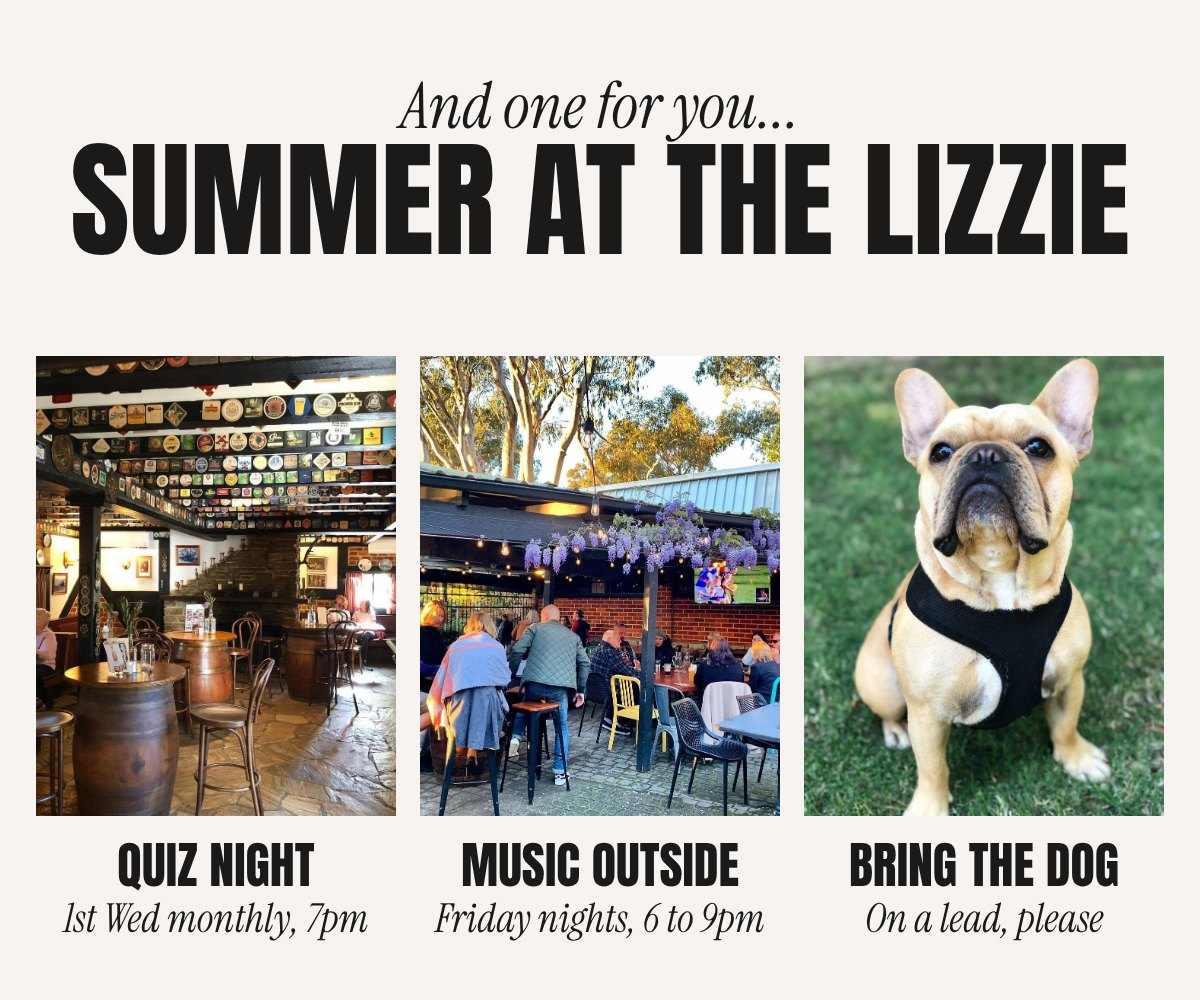
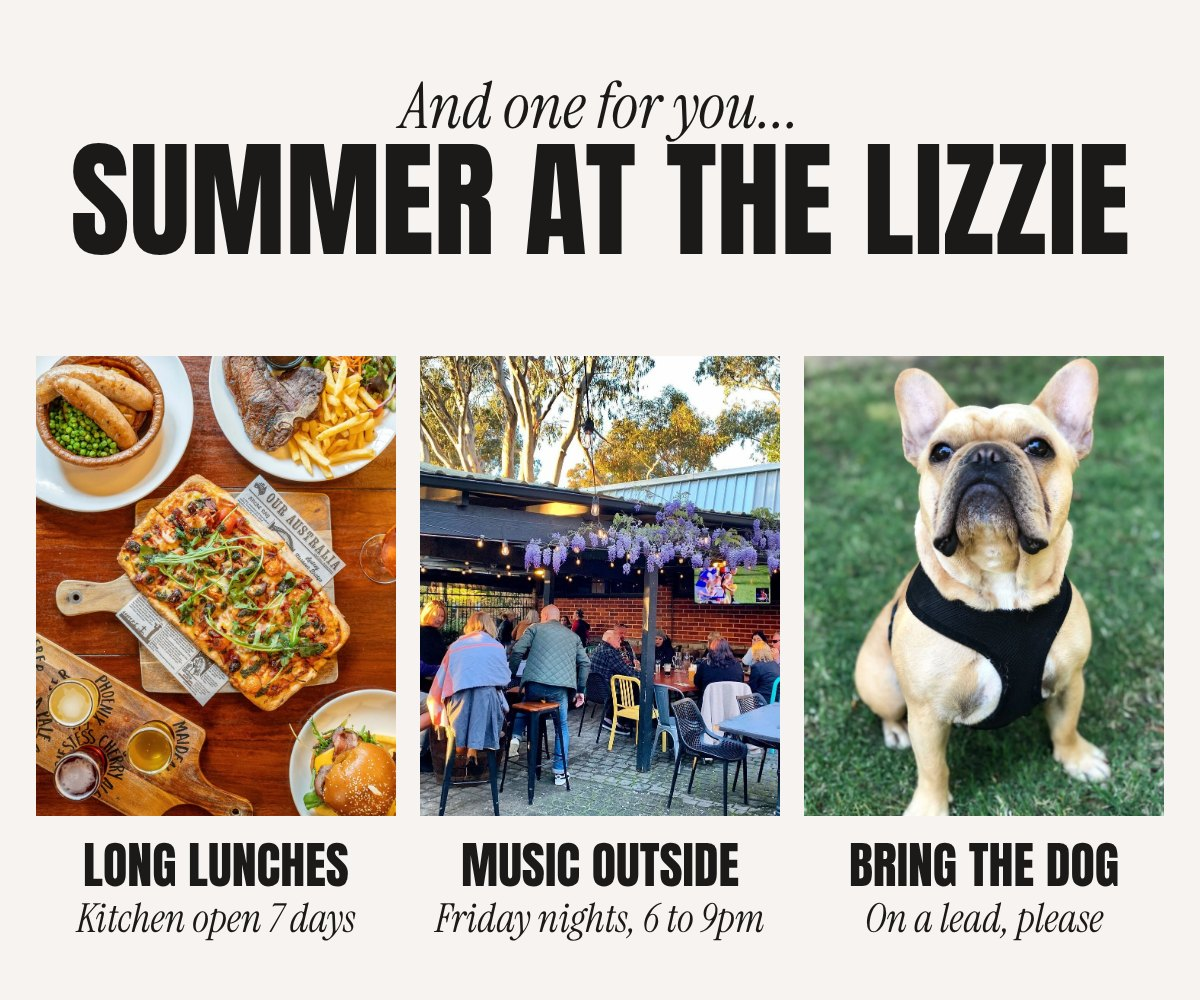
Lizzie plan: apply Sarah's notes across December emails
Platters and room hire wording in Christmas, Village Green removed,
seniors groups, reopening Wednesday 6 January, Christmas Eve hours,
@dogsofthelizzie, replies to her notes.

Claude-Session: https://claude.ai/code/session_01JNj2JeQGYZLpLPwVj3fL53

Changed region(s): [[0.0308, 0.341, 0.3392, 0.961]]

diff --git a/last-drop-elizabethan/plan/e-christmas.html b/last-drop-elizabethan/plan/e-christmas.html
@@ -17,11 +17,14 @@ img{display:block;width:600px;max-width:100%;height:auto}
 <div class="t"><p>Hi, Sarah here. I look after functions at the Lizzie.</p><p>Our Christmas menu starts this Saturday, 28 November, and runs until Christmas Eve. It's roast turkey and pork with crackling, Yorkshire puddings and all the sides for $30 a head, or $36 with pavlova, for groups of 20 or more.</p><p>If you're the one organising the work do this year, email me your date and numbers and I'll take it from there. Everything's prepaid 7 days ahead, so the sooner you book, the more dates you'll have to choose from.</p></div>
 <div class="b" style="padding-bottom:12px"><a href="mailto:info@lastdropelizabethan.com?subject=Christmas%20booking%20%28from%20your%20email%29&body=Hi%20Lizzie%20team%2C%0A%0AWe%27d%20love%20to%20book%20Christmas%20at%20the%20Lizzie.%0A%0ADate%3A%0ANumber%20of%20guests%20%2820%2B%29%3A%0ASpace%20we%27d%20like%3A%0ARoast%20%28%2430%29%20or%20roast%20%2B%20pavlova%20%28%2436%29%3A%0AName%20and%20phone%3A%0A%0AThanks%21">Email Sarah</a></div>
 <div class="t small" style="padding-top:0;padding-bottom:30px">Not the organiser? Forward this to whoever is.<br>Fewer than 20 of you? The Christmas roast is on every weekend until Christmas. For up to 14 people you can <a href="https://bookings.nowbookit.com/?accountid=58cf4dc2-efec-44b6-9343-872a46e872fb&venueid=7196&theme=light&colors=hex%2C000000">book a table online</a>, and for 15 to 19, just email me.</div>
-<a href="mailto:info@lastdropelizabethan.com?subject=Christmas%20booking%20%28from%20your%20email%29&body=Hi%20Lizzie%20team%2C%0A%0AWe%27d%20love%20to%20book%20Christmas%20at%20the%20Lizzie.%0A%0ADate%3A%0ANumber%20of%20guests%20%2820%2B%29%3A%0ASpace%20we%27d%20like%3A%0ARoast%20%28%2430%29%20or%20roast%20%2B%20pavlova%20%28%2436%29%3A%0AName%20and%20phone%3A%0A%0AThanks%21"><img src="img/lizzie-christmas-menu-v5.jpg" alt="The Christmas roast: roast turkey and pork with crackling, rosemary chats, pumpkin and honey carrot, peas, Yorkshire pudding, red wine gravy and cranberry sauce, then Christmas pavlova. $30 the roast, $36 with pavlova. Seniors $25, or $31 with pavlova."></a>
-<a href="mailto:info@lastdropelizabethan.com?subject=Christmas%20booking%20%28from%20your%20email%29&body=Hi%20Lizzie%20team%2C%0A%0AWe%27d%20love%20to%20book%20Christmas%20at%20the%20Lizzie.%0A%0ADate%3A%0ANumber%20of%20guests%20%2820%2B%29%3A%0ASpace%20we%27d%20like%3A%0ARoast%20%28%2430%29%20or%20roast%20%2B%20pavlova%20%28%2436%29%3A%0AName%20and%20phone%3A%0A%0AThanks%21"><img src="img/lizzie-christmas-spaces-v5.jpg" alt="Room for the crew: the Leo Fowler Room (10 to 60 seated), the Courtyard (10 to 50), the Upper Terrace (10 to 60) and the Village Green (20 to 70). Room hire and minimum spends may apply."></a>
+<a href="mailto:info@lastdropelizabethan.com?subject=Christmas%20booking%20%28from%20your%20email%29&body=Hi%20Lizzie%20team%2C%0A%0AWe%27d%20love%20to%20book%20Christmas%20at%20the%20Lizzie.%0A%0ADate%3A%0ANumber%20of%20guests%20%2820%2B%29%3A%0ASpace%20we%27d%20like%3A%0ARoast%20%28%2430%29%20or%20roast%20%2B%20pavlova%20%28%2436%29%3A%0AName%20and%20phone%3A%0A%0AThanks%21"><img src="img/lizzie-christmas-menu-v5.jpg" alt="The Christmas roast: roast turkey and pork with crackling, rosemary chats, pumpkin and honey carrot, peas, Yorkshire pudding, red wine gravy and cranberry sauce, then Christmas pavlova. $30 the roast, $36 with pavlova. Seniors groups $25, or $31 with pavlova, when the whole group orders it."></a>
+<a href="mailto:info@lastdropelizabethan.com?subject=Christmas%20booking%20%28from%20your%20email%29&body=Hi%20Lizzie%20team%2C%0A%0AWe%27d%20love%20to%20book%20Christmas%20at%20the%20Lizzie.%0A%0ADate%3A%0ANumber%20of%20guests%20%2820%2B%29%3A%0ASpace%20we%27d%20like%3A%0ARoast%20%28%2430%29%20or%20roast%20%2B%20pavlova%20%28%2436%29%3A%0AName%20and%20phone%3A%0A%0AThanks%21"><img src="img/lizzie-christmas-spaces-v5.jpg" alt="Room for the crew: the Leo Fowler Room (10 to 60 seated), the Courtyard (10 to 50) and the Upper Terrace (10 to 60). Happy to share the space with other groups? There's no hire fee or minimum spend. Want a space to yourselves? A private hire fee applies."></a>
 <div class="t"><p>To book, email me the date, roughly how many of you there'll be and the space you like the look of. The last day to book for Christmas Eve is 17 December.</p><p class="small">One couple who had their wedding here wrote that they had "amazing communication with Sarah throughout the planning process". Their words, not mine!</p></div>
 <div class="b" style="padding-top:4px"><a href="mailto:info@lastdropelizabethan.com?subject=Christmas%20booking%20%28from%20your%20email%29&body=Hi%20Lizzie%20team%2C%0A%0AWe%27d%20love%20to%20book%20Christmas%20at%20the%20Lizzie.%0A%0ADate%3A%0ANumber%20of%20guests%20%2820%2B%29%3A%0ASpace%20we%27d%20like%3A%0ARoast%20%28%2430%29%20or%20roast%20%2B%20pavlova%20%28%2436%29%3A%0AName%20and%20phone%3A%0A%0AThanks%21">Email Sarah</a></div>
+<a href="mailto:info@lastdropelizabethan.com?subject=Platters%20booking%20%28from%20your%20email%29&body=Hi%20Lizzie%20team%2C%0A%0AWe%27d%20love%20to%20book%20a%20work%20function%20with%20platters.%0A%0ADate%3A%0ANumber%20of%20guests%3A%0APlatters%20we%27re%20after%3A%0A%0AThanks%2C%0A"><img src="img/lizzie-christmas-platters.jpg" alt="Platters for the crew, from $70: King Neptune $150, The Bakery $120, brisket sliders $130 and antipasto mezze $150. Each serves 10 to 15 as a light meal. Order at least 2 weeks ahead."></a>
+<div class="t"><p>We're also taking work function bookings with platters. Email me your date, numbers and the platters you'd like, and I'll sort the rest.</p></div>
+<div class="b" style="padding-top:4px"><a href="mailto:info@lastdropelizabethan.com?subject=Platters%20booking%20%28from%20your%20email%29&body=Hi%20Lizzie%20team%2C%0A%0AWe%27d%20love%20to%20book%20a%20work%20function%20with%20platters.%0A%0ADate%3A%0ANumber%20of%20guests%3A%0APlatters%20we%27re%20after%3A%0A%0AThanks%2C%0A">Order platters</a></div>
 <a href="https://bookings.nowbookit.com/?accountid=58cf4dc2-efec-44b6-9343-872a46e872fb&venueid=7196&theme=light&colors=hex%2C000000"><img src="img/lizzie-christmas-not20-v5.jpg" alt="Not 20 of you? The Christmas roast is on every weekend until Christmas."></a>
 <div class="b ink" style="padding-top:0"><a href="https://bookings.nowbookit.com/?accountid=58cf4dc2-efec-44b6-9343-872a46e872fb&venueid=7196&theme=light&colors=hex%2C000000">Book a weekend table</a></div>
 <div class="ink"><div class="t" style="color:#E9DCCB;padding-top:0">Hope to see you before Christmas,<br>Sarah</div></div>
-<img src="img/lizzie-welcome-signoff.jpg" alt="A pure beer for a wicked world. Last Drop Elizabethan, since 1992."><div class="f">We're closed from 25 December until 5 January.<br><br>You're getting this because you signed up with Last Drop Elizabethan, or said yes to hearing from us when you booked or ordered.<br>Last Drop Elizabethan · 25 Canns Road, Bedfordale WA 6112<br><u>Unsubscribe</u></div></div></body></html>
+<img src="img/lizzie-welcome-signoff.jpg" alt="A pure beer for a wicked world. Last Drop Elizabethan, since 1992."><div class="f">We're closed from 25 December and back on Wednesday 6 January.<br><br>You're getting this because you signed up with Last Drop Elizabethan, or said yes to hearing from us when you booked or ordered.<br>Last Drop Elizabethan · 25 Canns Road, Bedfordale WA 6112<br><u>Unsubscribe</u></div></div></body></html>

diff --git a/last-drop-elizabethan/plan/index.html b/last-drop-elizabethan/plan/index.html
@@ -191,7 +191,7 @@ html{scroll-behavior:smooth}
   <div class="send">
     <div class="when"><b>Wed 25 Nov</b>proposed</div>
     <div><h3>Christmas for the whole crew</h3><div class="goal">Christmas functions for groups of 20+</div><span class="tag ok" style="margin-top:6px">Functions</span></div>
-    <div class="angle">Your Christmas menu, $30 a head or $36 with pavlova, your spaces, and the weekend roast for smaller groups.<span>Goes to: your whole list (newsletter first)</span></div>
+    <div class="angle">Your Christmas menu, $30 a head or $36 with pavlova, your spaces, platters for work functions, and the weekend roast for smaller groups.<span>Goes to: your whole list (newsletter first)</span></div>
   </div>
   <div class="send">
     <div class="when"><b>Thu 3 Dec</b>proposed</div>
@@ -252,7 +252,7 @@ html{scroll-behavior:smooth}
     <h3 style="margin:0;font-size:18px;letter-spacing:-.01em">How it&#39;s counted (from our agreement)</h3>
     <ul style="margin:0;padding-left:20px;display:grid;gap:6px;font-size:15px;line-height:1.5">
       <li><b>Functions:</b> an enquiry that comes from one of these emails (subject line &ldquo;from your email&rdquo;, or a click on a function button) counts once it&#39;s confirmed with a deposit, within 30 days of the enquiry, at its confirmed value.</li>
-      <li><b>Table bookings:</b> bookings made through a tracked link in the emails, with each guest valued at your average spend per head. It&#39;s the first question below.</li>
+      <li><b>Table bookings:</b> bookings made through a tracked link in the emails, with each guest valued at your average spend per head, which you told us is $55.</li>
       <li><b>Gift cards:</b> gift cards bought through a tracked link in the emails.</li>
       <li>The figures come from your own NowBookit, gift card and function records, and you&#39;ll see every booking and sale behind the total.</li>
     </ul>
@@ -278,7 +278,7 @@ html{scroll-behavior:smooth}
     <label for="qa-offer">A welcome offer for first-time guests (optional)<small>The welcome email doesn&#39;t include an offer. If you&#39;d ever like to give new sign-ups something for their first visit, tell me what you&#39;d be happy to offer and I&#39;ll add it.</small><textarea id="qa-offer"></textarea></label>
     <label for="qa-roast">A photo of the Christmas roast<small>Even a phone photo of a plated Christmas roast would help the Christmas emails a lot. Reply to my email with it attached.</small><textarea id="qa-roast"></textarea></label>
     <label for="qa-dates">Your Christmas closing dates<small>You mentioned you&#39;re closed from 25 December until 5 January. Is 5 January the day you reopen, or the last day you&#39;re closed? And what are your hours on Christmas Eve?</small><textarea id="qa-dates"></textarea></label>
-    <label for="qa-hire">Room hire for Christmas groups<small>Your function booklet lists a hire fee for the Leo Fowler Room ($500 to $700) and minimum spends for the other spaces. For a Christmas group of 20+ on the $30 menu, do those still apply? The emails currently say &ldquo;room hire and minimum spends may apply&rdquo;.</small><textarea id="qa-hire"></textarea></label>
+    <label for="qa-hire">Room hire for Christmas groups<small>Your function booklet lists a hire fee for the Leo Fowler Room ($500 to $700) and minimum spends for the other spaces. For a Christmas group of 20+ on the $30 menu, do those still apply?</small><textarea id="qa-hire"></textarea></label>
     <label for="qa-seniors">The seniors Christmas menu<small>Who can order it (for example, Seniors Card holders, or over a certain age)?</small><textarea id="qa-seniors"></textarea></label>
     <div class="row"><button type="button" id="qa-send">Send my answers</button></div>
     <div class="err" id="qa-err" role="alert"></div>
@@ -323,7 +323,7 @@ html{scroll-behavior:smooth}
       "preheader": "Christmas for groups of 20 or more, from this Saturday.",
       "audience": "Your whole list (newsletter subscribers first)",
       "when": "Wed 25 Nov: newsletter subscribers 9am, everyone else 5:30pm Perth time, proposed",
-      "flag": "The urgent one. It’s written and signed by you, because you’re the one people email to book. Every “Email Sarah” button opens an email to info@lastdropelizabethan.com, ready filled with the date, numbers and space for them to complete."
+      "flag": "The urgent one. It’s written and signed by you, because you’re the one people email to book. Every “Email Sarah” button opens an email to info@lastdropelizabethan.com, ready filled with the date, numbers and space for them to complete. Updated with your notes: platters for work functions added, the Village Green taken out, and the room hire wording now matches what you told us."
      },
      {
       "id": "gifts",
@@ -356,7 +356,7 @@ html{scroll-behavior:smooth}
       "preheader": "Our gift cards go straight to their inbox.",
       "audience": "Your whole list",
       "when": "Sun 20 Dec, 9am Perth time, proposed",
-      "flag": "Your closing dates are in this one, so please check the question about them below."
+      "flag": "Updated with your answers: your Christmas Eve hours (11am to 10pm, kitchen 12 to 2:30 and 5:30 to 8:30) and back on Wednesday 6 January."
      },
      {
       "id": "welcome",
@@ -372,7 +372,18 @@ html{scroll-behavior:smooth}
     ];
 
   /* Mel's replies to notes, shown in each card's thread */
-  var REPLIES = [];
+  var REPLIES = [
+ {
+  "item": "christmas",
+  "at": "2026-11-24T05:52:00Z",
+  "text": "Thanks Sarah, all done. We've added a platters section for work functions (from $70, with the 2 weeks' notice) and taken the Village Green out. The spaces now say there's no hire fee or minimum spend if they're happy to share, and a private hire fee if they want the space to themselves. Seniors groups are in too. Could you give it one more look and approve it when you're happy?"
+ },
+ {
+  "item": "questions",
+  "at": "2026-11-24T05:52:00Z",
+  "text": "Thanks for these. Your $55 average spend is now in how table bookings are counted. Your Christmas Eve hours and Wednesday 6 January reopening are in every email, @dogsofthelizzie is in the welcome, and we've swapped quiz night for long lunches in the gift card email since there's no quiz in January. Send the roast photo through after the weekend and we'll drop it in."
+ }
+];
   function withReplies(list, item){
     return list.concat(REPLIES.filter(function(r){ return r.item === item; }).map(function(r){ return {reply:true, at:r.at, text:r.text}; }))
       .sort(function(a, b){ return new Date(a.at) - new Date(b.at); });

diff --git a/last-drop-elizabethan/plan/e-gifts.html b/last-drop-elizabethan/plan/e-gifts.html
@@ -21,7 +21,7 @@ img{display:block;width:600px;max-width:100%;height:auto}
 <div class="b ink" style="padding-top:0"><a href="https://giftcards.nowbookit.com/cards/card-selection?accountid=58cf4dc2-efec-44b6-9343-872a46e872fb&venueid=7196&theme=light&accent=00%2C00%2C00">Buy a gift card</a></div>
 <a href="mailto:info@lastdropelizabethan.com?subject=Christmas%20booking%20%28from%20your%20email%29&body=Hi%20Lizzie%20team%2C%0A%0AWe%27d%20love%20to%20book%20Christmas%20at%20the%20Lizzie.%0A%0ADate%3A%0ANumber%20of%20guests%20%2820%2B%29%3A%0ASpace%20we%27d%20like%3A%0ARoast%20%28%2430%29%20or%20roast%20%2B%20pavlova%20%28%2436%29%3A%0AName%20and%20phone%3A%0A%0AThanks%21"><img src="img/lizzie-gifts-stilltime.jpg" alt="Still sorting the work do? There's still time. Christmas roast for groups of 20 or more, $30 a head. Book by 17 December for Christmas Eve."></a>
 <div class="b ink" style="padding-top:0"><a href="mailto:info@lastdropelizabethan.com?subject=Christmas%20booking%20%28from%20your%20email%29&body=Hi%20Lizzie%20team%2C%0A%0AWe%27d%20love%20to%20book%20Christmas%20at%20the%20Lizzie.%0A%0ADate%3A%0ANumber%20of%20guests%20%2820%2B%29%3A%0ASpace%20we%27d%20like%3A%0ARoast%20%28%2430%29%20or%20roast%20%2B%20pavlova%20%28%2436%29%3A%0AName%20and%20phone%3A%0A%0AThanks%21">Email Sarah</a></div>
-<a href="https://bookings.nowbookit.com/?accountid=58cf4dc2-efec-44b6-9343-872a46e872fb&venueid=7196&theme=light&colors=hex%2C000000"><img src="img/lizzie-gifts-summer-v5.jpg" alt="Summer at the Lizzie: quiz night on the first Wednesday of the month at 7pm, music outside on Friday nights from 6 to 9pm, and dogs are welcome on a lead."></a>
+<a href="https://bookings.nowbookit.com/?accountid=58cf4dc2-efec-44b6-9343-872a46e872fb&venueid=7196&theme=light&colors=hex%2C000000"><img src="img/lizzie-gifts-summer-v5.jpg" alt="Summer at the Lizzie: long lunches with the kitchen open 7 days, music outside on Friday nights from 6 to 9pm, and dogs are welcome on a lead."></a>
 <div class="b" style="padding-top:0"><a href="https://bookings.nowbookit.com/?accountid=58cf4dc2-efec-44b6-9343-872a46e872fb&venueid=7196&theme=light&colors=hex%2C000000">Book a table</a></div>
 <div class="t" style="padding-top:0;padding-bottom:26px">Cheers,<br>Sarah and the Lizzie crew</div>
-<img src="img/lizzie-welcome-signoff.jpg" alt="A pure beer for a wicked world. Last Drop Elizabethan, since 1992."><div class="f">We're closed from 25 December until 5 January.<br><br>You're getting this because you signed up with Last Drop Elizabethan, or said yes to hearing from us when you booked or ordered.<br>Last Drop Elizabethan · 25 Canns Road, Bedfordale WA 6112<br><u>Unsubscribe</u></div></div></body></html>
+<img src="img/lizzie-welcome-signoff.jpg" alt="A pure beer for a wicked world. Last Drop Elizabethan, since 1992."><div class="f">We're closed from 25 December and back on Wednesday 6 January.<br><br>You're getting this because you signed up with Last Drop Elizabethan, or said yes to hearing from us when you booked or ordered.<br>Last Drop Elizabethan · 25 Canns Road, Bedfordale WA 6112<br><u>Unsubscribe</u></div></div></body></html>

diff --git a/last-drop-elizabethan/plan/e-lastgift.html b/last-drop-elizabethan/plan/e-lastgift.html
@@ -19,7 +19,7 @@ img{display:block;width:600px;max-width:100%;height:auto}
 <div class="b" style="padding-top:6px"><a href="https://giftcards.nowbookit.com/cards/card-selection?accountid=58cf4dc2-efec-44b6-9343-872a46e872fb&venueid=7196&theme=light&accent=00%2C00%2C00">Buy a gift card</a></div>
 <a href="https://giftcards.nowbookit.com/cards/card-selection?accountid=58cf4dc2-efec-44b6-9343-872a46e872fb&venueid=7196&theme=light&accent=00%2C00%2C00"><img src="img/lizzie-gifts-goodstuff-v5.jpg" alt="What a gift card gets them: $25 garlic bread and chippies, $50 a dirty burger and sticky date pudding, $100 two parmis and two sticky date puddings, $150 giant yorkies for four plus two Eton messes."></a>
 <div class="b ink" style="padding-top:0"><a href="https://giftcards.nowbookit.com/cards/card-selection?accountid=58cf4dc2-efec-44b6-9343-872a46e872fb&venueid=7196&theme=light&accent=00%2C00%2C00">Buy a gift card</a></div>
-<img src="img/lizzie-lastgift-2027.jpg" alt="See you in 2027! We're closed from 25 December until 5 January. Open until Christmas Eve.">
-<div class="t" style="padding-top:0"><p>This is our last email for the year. Thanks for coming in, and we'll see you in January.</p><p>Sarah and the Lizzie crew</p><p class="small">Planning a birthday or a work do for early next year? <a href="mailto:info@lastdropelizabethan.com?subject=Function%20enquiry%20%28from%20your%20email%29&body=Hi%20Lizzie%20team%2C%0A%0AWe%27re%20planning%20a%20function.%0A%0AOccasion%3A%0ADate%3A%0ANumber%20of%20guests%3A%0ASpace%20we%27d%20like%20%28if%20you%20know%29%3A%0AName%20and%20phone%3A%0A%0AThanks%21">Email me</a> and we can start planning.</p></div>
+<img src="img/lizzie-lastgift-2027.jpg" alt="See you in 2027! Thanks for coming in this year. We're closed from Christmas Day and back on Wednesday 6 January. Christmas Eve: open 11am to 10pm.">
+<div class="t" style="padding-top:0"><p>This is our last email for the year. On Christmas Eve we're open from 11am to 10pm, and the kitchen's on from 12 to 2:30 and 5:30 to 8:30. Then we take a break and we're back on Wednesday 6 January.</p><p>Sarah and the Lizzie crew</p><p class="small">Planning a birthday or a work do for early next year? <a href="mailto:info@lastdropelizabethan.com?subject=Function%20enquiry%20%28from%20your%20email%29&body=Hi%20Lizzie%20team%2C%0A%0AWe%27re%20planning%20a%20function.%0A%0AOccasion%3A%0ADate%3A%0ANumber%20of%20guests%3A%0ASpace%20we%27d%20like%20%28if%20you%20know%29%3A%0AName%20and%20phone%3A%0A%0AThanks%21">Email me</a> and we can start planning.</p></div>
 <div style="height:14px"></div>
 <img src="img/lizzie-welcome-signoff.jpg" alt="A pure beer for a wicked world. Last Drop Elizabethan, since 1992."><div class="f">You're getting this because you signed up with Last Drop Elizabethan, or said yes to hearing from us when you booked or ordered.<br>Last Drop Elizabethan · 25 Canns Road, Bedfordale WA 6112<br><u>Unsubscribe</u></div></div></body></html>

diff --git a/last-drop-elizabethan/plan/e-welcome.html b/last-drop-elizabethan/plan/e-welcome.html
@@ -20,7 +20,7 @@ img{display:block;width:600px;max-width:100%;height:auto}
 <a href="https://bookings.nowbookit.com/?accountid=58cf4dc2-efec-44b6-9343-872a46e872fb&venueid=7196&theme=light&colors=hex%2C000000"><img src="img/lizzie-welcome-reviews.jpg" alt="1,500+ five-star Google reviews."></a>
 <a href="mailto:info@lastdropelizabethan.com?subject=Function%20enquiry%20%28from%20your%20email%29&body=Hi%20Lizzie%20team%2C%0A%0AWe%27re%20planning%20a%20function.%0A%0AOccasion%3A%0ADate%3A%0ANumber%20of%20guests%3A%0ASpace%20we%27d%20like%20%28if%20you%20know%29%3A%0AName%20and%20phone%3A%0A%0AThanks%21"><img src="img/lizzie-welcome-functions-v2.jpg" alt="Got a party coming up? Functions for 15 or more guests, 4 private spaces, up to 90 standing, with its own bar in the function room."></a>
 <div class="b" style="padding-top:0"><a href="mailto:info@lastdropelizabethan.com?subject=Function%20enquiry%20%28from%20your%20email%29&body=Hi%20Lizzie%20team%2C%0A%0AWe%27re%20planning%20a%20function.%0A%0AOccasion%3A%0ADate%3A%0ANumber%20of%20guests%3A%0ASpace%20we%27d%20like%20%28if%20you%20know%29%3A%0AName%20and%20phone%3A%0A%0AThanks%21">Plan your function</a></div>
-<a href="https://www.lastdropelizabethan.com/dogsofthelizzie"><img src="img/lizzie-welcome-dogs-v6.jpg" alt="And yes, bring the dog. Meet some of the regulars from #dogsofthelizzie: Bundy, Bella, Doug, Logan, Reggie and Harry."></a>
+<a href="https://www.lastdropelizabethan.com/dogsofthelizzie"><img src="img/lizzie-welcome-dogs-v6.jpg" alt="And yes, bring the dog. Meet some of the regulars from #dogsofthelizzie: Bundy, Bella, Doug, Logan, Reggie and Harry. Tag @dogsofthelizzie in your dog pics."></a>
 <div class="b ink" style="padding-top:6px"><a href="https://bookings.nowbookit.com/?accountid=58cf4dc2-efec-44b6-9343-872a46e872fb&venueid=7196&theme=light&colors=hex%2C000000">Book a table</a></div>
 <div class="ink"><div class="t" style="color:#E9DCCB;padding-top:0">See you soon,<br>Sarah and the crew at the Lizzie</div></div>
 <img src="img/lizzie-welcome-signoff.jpg" alt="A pure beer for a wicked world. Last Drop Elizabethan, since 1992."><div class="f">You're getting this because you signed up with Last Drop Elizabethan, or said yes to hearing from us when you booked or ordered.<br>Last Drop Elizabethan · 25 Canns Road, Bedfordale WA 6112<br><u>Unsubscribe</u></div></div></body></html>

diff --git a/last-drop-elizabethan/plan/e-lastcall.html b/last-drop-elizabethan/plan/e-lastcall.html
@@ -19,4 +19,4 @@ img{display:block;width:600px;max-width:100%;height:auto}
 <div class="b" style="padding-top:6px;padding-bottom:20px"><a href="mailto:info@lastdropelizabethan.com?subject=Christmas%20booking%20%28from%20your%20email%29&body=Hi%20Lizzie%20team%2C%0A%0AWe%27d%20love%20to%20book%20Christmas%20at%20the%20Lizzie.%0A%0ADate%3A%0ANumber%20of%20guests%20%2820%2B%29%3A%0ASpace%20we%27d%20like%3A%0ARoast%20%28%2430%29%20or%20roast%20%2B%20pavlova%20%28%2436%29%3A%0AName%20and%20phone%3A%0A%0AThanks%21">Email Sarah</a></div>
 <div class="t letter" style="padding-top:0"><p>Smaller group? The Christmas roast is on this weekend and next. For up to 14 people, <a href="https://bookings.nowbookit.com/?accountid=58cf4dc2-efec-44b6-9343-872a46e872fb&venueid=7196&theme=light&colors=hex%2C000000">book a table online</a>. For 15 to 19, just email me.</p><p>Thanks,<br>Sarah</p><p class="small">P.S. If you're stuck for presents, our gift cards start at $25 and we email them straight to the person. <a href="https://giftcards.nowbookit.com/cards/card-selection?accountid=58cf4dc2-efec-44b6-9343-872a46e872fb&venueid=7196&theme=light&accent=00%2C00%2C00">Have a look here</a>.</p></div>
 <div style="height:16px"></div>
-<img src="img/lizzie-welcome-signoff.jpg" alt="A pure beer for a wicked world. Last Drop Elizabethan, since 1992."><div class="f">We're closed from 25 December until 5 January.<br><br>You're getting this because you signed up with Last Drop Elizabethan, or said yes to hearing from us when you booked or ordered.<br>Last Drop Elizabethan · 25 Canns Road, Bedfordale WA 6112<br><u>Unsubscribe</u></div></div></body></html>
+<img src="img/lizzie-welcome-signoff.jpg" alt="A pure beer for a wicked world. Last Drop Elizabethan, since 1992."><div class="f">We're closed from 25 December and back on Wednesday 6 January.<br><br>You're getting this because you signed up with Last Drop Elizabethan, or said yes to hearing from us when you booked or ordered.<br>Last Drop Elizabethan · 25 Canns Road, Bedfordale WA 6112<br><u>Unsubscribe</u></div></div></body></html>
